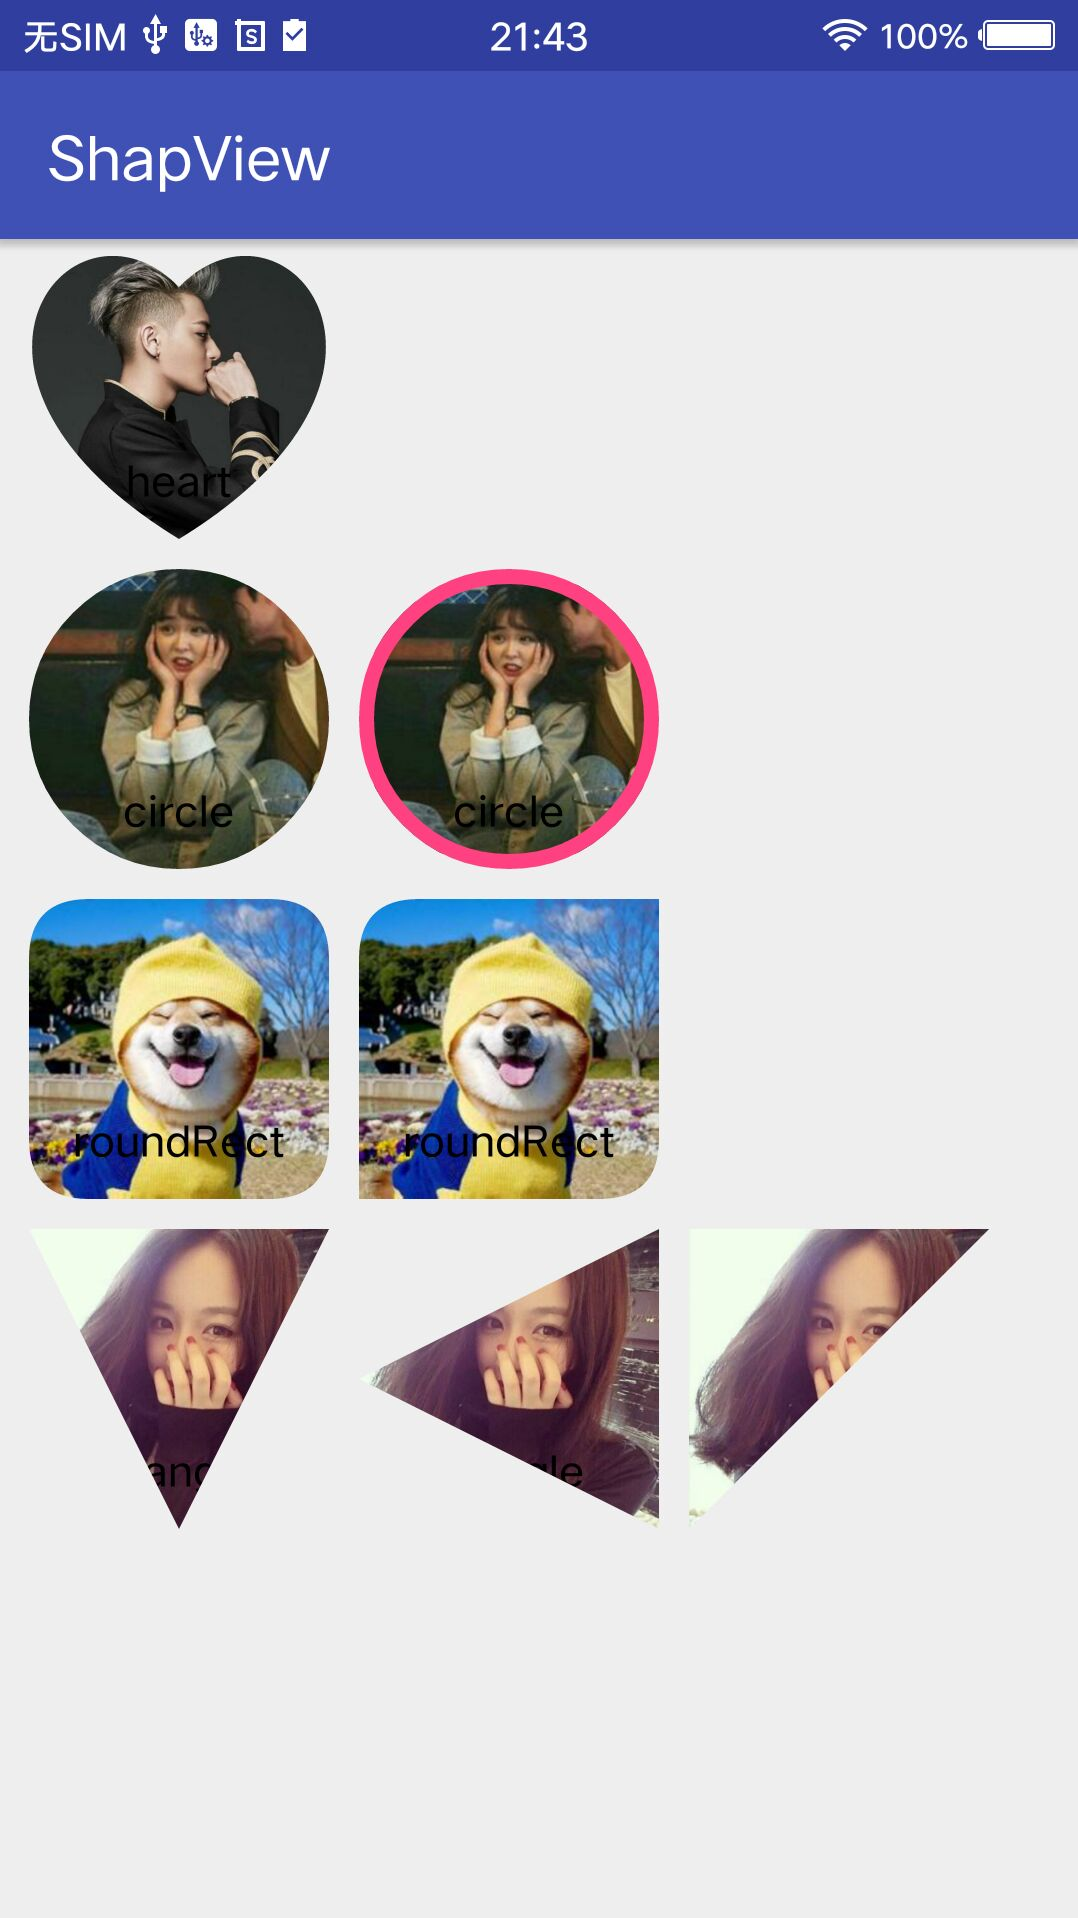
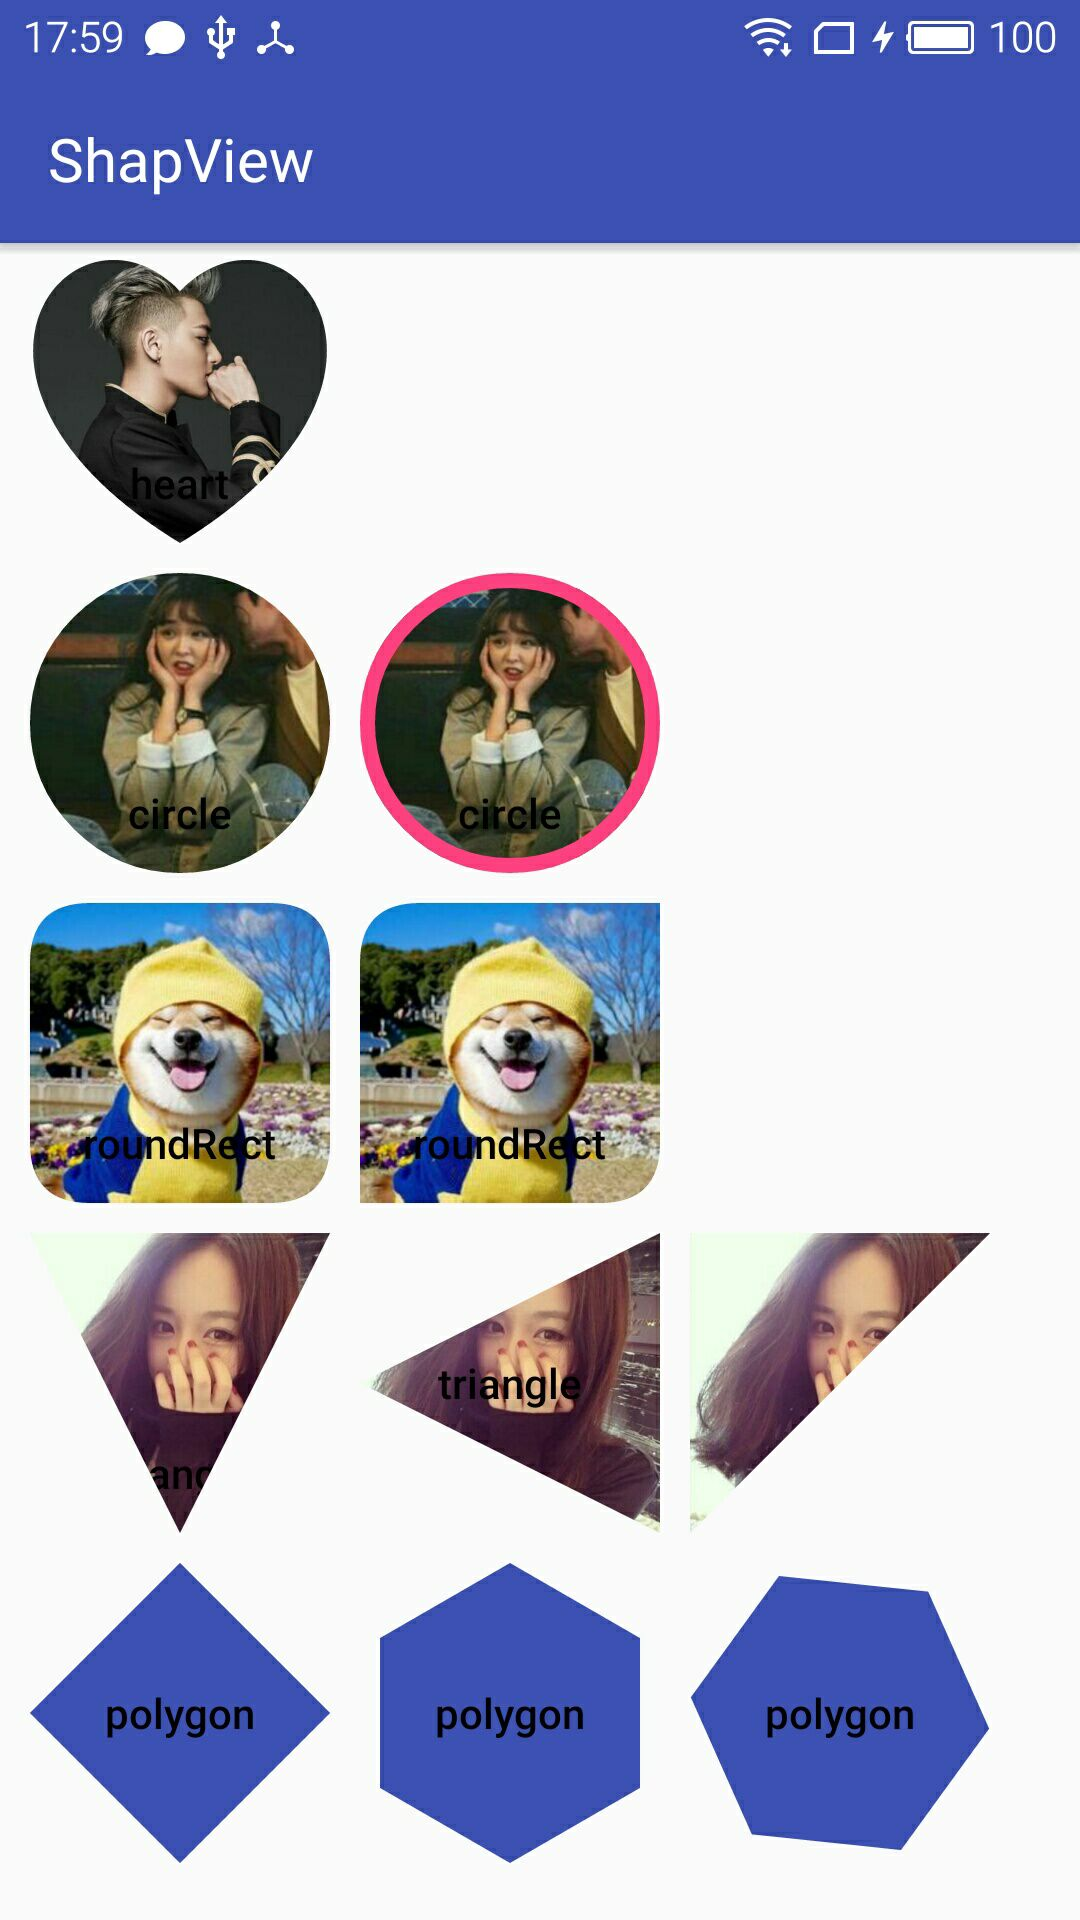
多边形

diff --git a/mylibrary/src/main/java/com/github/xwc/view/ShapeView.java b/mylibrary/src/main/java/com/github/xwc/view/ShapeView.java
@@ -38,6 +38,8 @@ public class ShapeView extends View {
 
     private float radian = 0.2f; // radians of heart
 
+    private int sides = 4;
+    private float turn = 0.5f; //0.5 : Turn 90 °
 
     public ShapeView(@NonNull Context context) {
         super(context);
@@ -74,8 +76,13 @@ public class ShapeView extends View {
                 percentBottom = typedArray.getFloat(R.styleable.ShapeView_shape_triangle_percentBottom, percentBottom);
                 percentRight = typedArray.getFloat(R.styleable.ShapeView_shape_triangle_percentRight, percentRight);
             }
-            if(shapeType == 3){
-                radian = typedArray.getFloat(R.styleable.ShapeView_shape_heart_radian,radian);
+            if (shapeType == 3) {
+                radian = typedArray.getFloat(R.styleable.ShapeView_shape_heart_radian, radian);
+            }
+
+            if (shapeType == 4) {
+                sides = typedArray.getInteger(R.styleable.ShapeView_shape_polygon_side, sides);
+                turn = typedArray.getFloat(R.styleable.ShapeView_shape_polygon_turn,turn);
             }
 
             typedArray.recycle();
@@ -96,29 +103,28 @@ public class ShapeView extends View {
                         RectF rectF = new RectF();
                         rectF.set(0, 0, width, height);
                         if (radius > 0) {
-                            path.set(generatePath(rectF, radius, radius, radius, radius));
+                            getRoundRectPath(rectF, path, radius, radius, radius, radius);
                         } else {
-                            path.set(generatePath(rectF, topLeftRadius, topRightRadius, bottomRightRadius, bottomLeftRadius));
+                            getRoundRectPath(rectF, path, topLeftRadius, topRightRadius, bottomRightRadius, bottomLeftRadius);
                         }
                         break;
                     case 2://triangle
-                        path.moveTo(0, percentLeft * height);
-                        path.lineTo(percentBottom * width, height);
-                        path.lineTo(width, percentRight * height);
-                        path.close();
+                        getTrianglePath(path, width, height);
                         break;
                     case 3://heart
-                        path.moveTo(0.5f * width, 0.16f * height);
-                        path.cubicTo(0.15f * width, -radian * height, -0.4f * width, 0.45f * height, 0.5f * width, height);
-                        path.moveTo(0.5f * width, height);
-                        path.cubicTo(width + 0.4f * width, 0.45f * height, width - 0.15f * width, -radian * height, 0.5f * width, 0.16f * height);
-                        path.close();
+                        getHeartPath(path, width, height);
+                        break;
+                    case 4: //equilateralPolygon
+                        RectF polygonRectF = new RectF();
+                        polygonRectF.set(0, 0, width, height);
+                        getPolygonPath(polygonRectF, path);
                         break;
                 }
                 return path;
             }
         });
     }
+
 
     @Override
     protected void dispatchDraw(Canvas canvas) {
@@ -131,8 +137,7 @@ public class ShapeView extends View {
         }
     }
 
-    private Path generatePath(RectF rect, float topLeftDiameter, float topRightDiameter, float bottomRightDiameter, float bottomLeftDiameter) {
-        final Path path = new Path();
+    private void getRoundRectPath(RectF rect, Path path, float topLeftDiameter, float topRightDiameter, float bottomRightDiameter, float bottomLeftDiameter) {
         topLeftDiameter = topLeftDiameter < 0 ? 0 : topLeftDiameter;
         topRightDiameter = topRightDiameter < 0 ? 0 : topRightDiameter;
         bottomLeftDiameter = bottomLeftDiameter < 0 ? 0 : bottomLeftDiameter;
@@ -149,8 +154,42 @@ public class ShapeView extends View {
         path.lineTo(rect.left, rect.top + topLeftDiameter);
         path.quadTo(rect.left, rect.top, rect.left + topLeftDiameter, rect.top);
         path.close();
+    }
 
-        return path;
+    private void getTrianglePath(Path path, int width, int height) {
+        path.moveTo(0, percentLeft * height);
+        path.lineTo(percentBottom * width, height);
+        path.lineTo(width, percentRight * height);
+        path.close();
+    }
+
+    private void getHeartPath(Path path, int width, int height) {
+        path.moveTo(0.5f * width, 0.16f * height);
+        path.cubicTo(0.15f * width, -radian * height, -0.4f * width, 0.45f * height, 0.5f * width, height);
+        path.moveTo(0.5f * width, height);
+        path.cubicTo(width + 0.4f * width, 0.45f * height, width - 0.15f * width, -radian * height, 0.5f * width, 0.16f * height);
+        path.close();
+    }
+
+    private void getPolygonPath(RectF rect, Path path) {
+        if (sides < 3) {
+            return;
+        }
+        float r = (rect.right - rect.left) / 2;
+        float mX = (rect.right + rect.left) / 2;
+        float my = (rect.top + rect.bottom) / 2;
+        for (int i = 0; i <= sides; i++) {
+            // - 0.5 : Turn 90 °
+            float alpha = Double.valueOf(((2f / sides) * i - turn) * Math.PI).floatValue();
+            float nextX = mX + Double.valueOf(r * Math.cos(alpha)).floatValue();
+            float nextY = my + Double.valueOf(r * Math.sin(alpha)).floatValue();
+            if (i == 0) {
+                path.moveTo(nextX, nextY);
+            } else {
+                path.lineTo(nextX, nextY);
+            }
+        }
+
     }
 
 

diff --git a/mylibrary/src/main/java/com/github/xwc/view/View.java b/mylibrary/src/main/java/com/github/xwc/view/View.java
@@ -47,8 +47,6 @@ public class View extends FrameLayout {
         setDrawingCacheEnabled(true);
         setLayerType(LAYER_TYPE_SOFTWARE, null); //Only works for software layers
 
-
-        //关于这个属性的意思可查看http://blog.csdn.net/wingichoy/article/details/50534175
         porterDuffXfermode = new PorterDuffXfermode(PorterDuff.Mode.DST_IN);
         setWillNotDraw(false);
 
